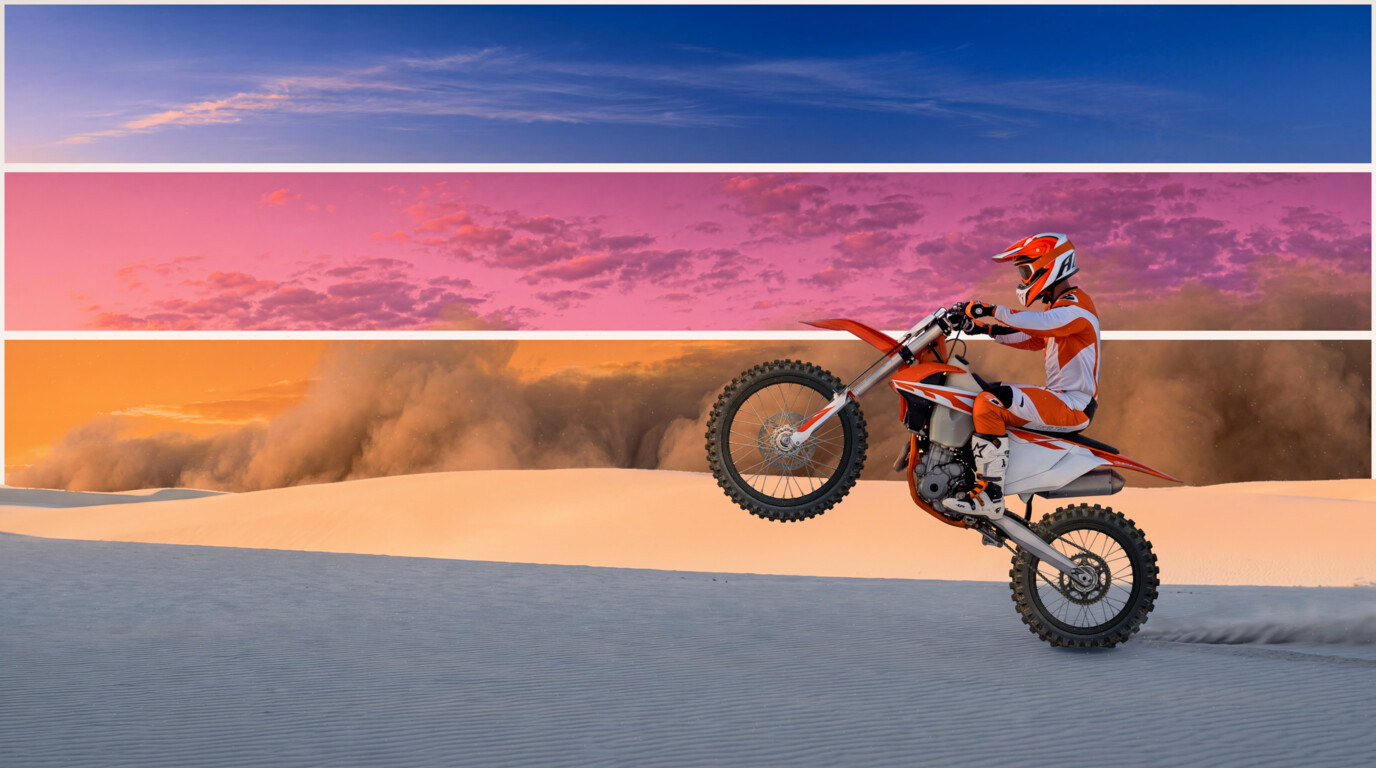
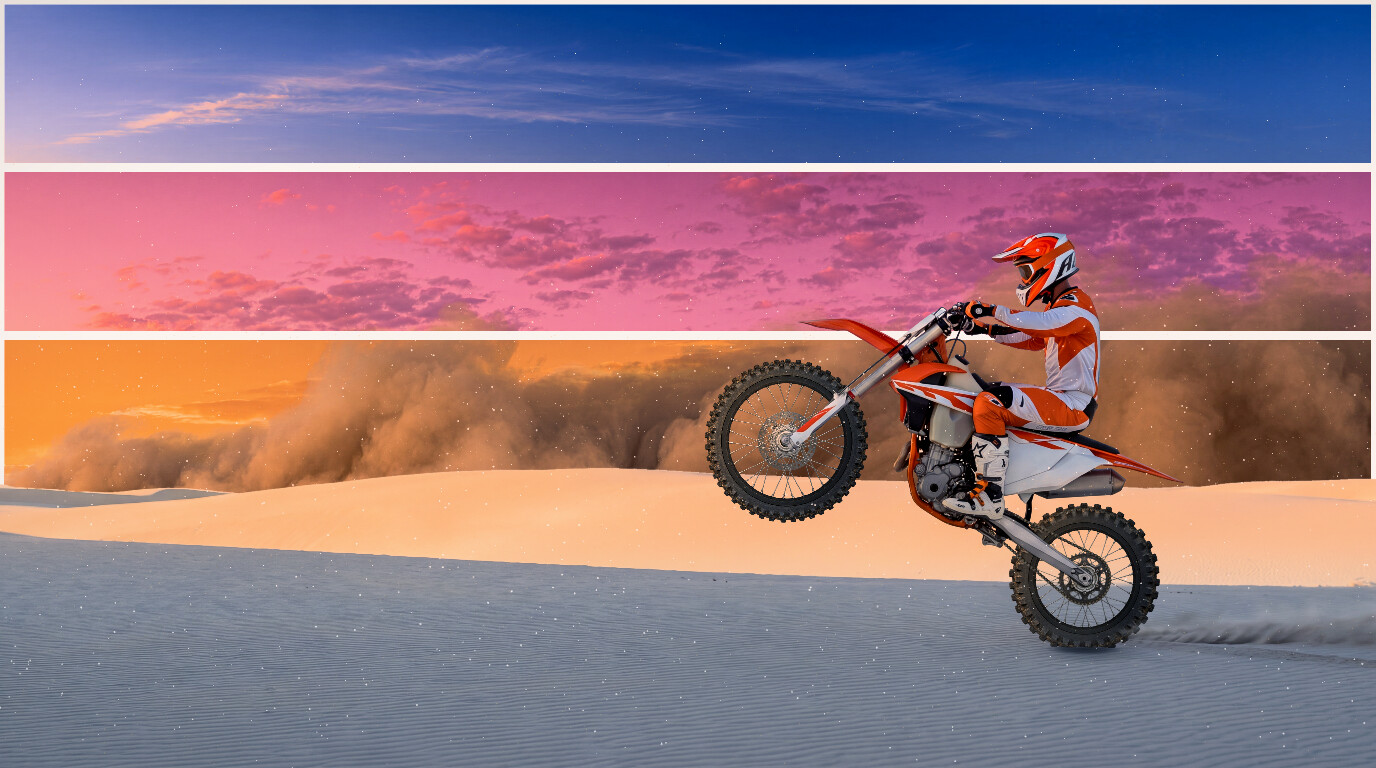
Add sparkling glints to the Wheely dust
Untinted sand grains ride with the distant and near grain layers at half
their rates, mirroring each layer's area and motion, and sparkle in the
low sun. The glint painter keeps a rotation so Qt draws scaled quads;
point sprites ignore the scene's downscale and showed as soft blobs.
The preview image now shows the glints.

diff --git a/themes/wheely/scene/AmbientDust.qml b/themes/wheely/scene/AmbientDust.qml
@@ -45,9 +45,12 @@ Item {
     xVector: PointDirection { x: 2.8; y: 0 }
     yVector: PointDirection { x: 0; y: 0.3 }
   }
+  // Rotation also keeps glints on scaled quads; point sprites ignore the scene's scale.
+  ImageParticle { system: air; groups: ["glint"]; source: "sand-grain.svg"; rotationVariation: 180 }
 
   // Pre-roll fills the air immediately; emission also extends beyond the left edge.
   Emitter {
+    id: distantGrains
     system: air; group: "distant"; enabled: root.painted
     x: -0.15 * root.width; y: 0.10 * root.height
     width: 1.15 * root.width; height: 0.66 * root.height
@@ -56,6 +59,7 @@ Item {
     velocity: PointDirection { x: 24; xVariation: 18; y: -5; yVariation: 10 }
   }
   Emitter {
+    id: nearGrains
     system: air; group: "near"; enabled: root.painted
     x: -0.2 * root.width; y: 0.42 * root.height
     width: 1.2 * root.width; height: 0.58 * root.height
@@ -70,5 +74,18 @@ Item {
     emitRate: 1; lifeSpan: 22000; lifeSpanVariation: 5000; startTime: 27000
     size: 440; endSize: 700; sizeVariation: 160
     velocity: PointDirection { x: 65; xVariation: 25; y: -8; yVariation: 8 }
+  }
+  // Half as many untinted grains ride with each grain layer and sparkle in the low sun.
+  Repeater {
+    model: [distantGrains, nearGrains]
+    Emitter {
+      required property Emitter modelData
+      system: air; group: "glint"; enabled: root.painted
+      x: modelData.x; y: modelData.y; width: modelData.width; height: modelData.height
+      emitRate: modelData.emitRate / 2; startTime: modelData.startTime
+      lifeSpan: modelData.lifeSpan; lifeSpanVariation: modelData.lifeSpanVariation
+      size: modelData.size; sizeVariation: modelData.sizeVariation
+      velocity: modelData.velocity
+    }
   }
 }

diff --git a/themes/wheely/README.md b/themes/wheely/README.md
@@ -40,6 +40,11 @@ Emitting, pre-roll included, waits for the window's first three drawn frames. Qt
 has drawn, so a hot reload's pre-roll otherwise showed as bright white puffs for ~15 s.
 Checked on hot reload, fresh launch, and offscreen stills.
 
+The user liked how those white grains sparkled and approved untinted glints on
+2026-10-18: they ride with the distant and near grains at half their rates, mirroring
+their area and motion. The glint painter needs a rotation; without one Qt draws point
+sprites, which ignore the scene's downscale and show as large soft blobs.
+
 ## Horizon sandstorm
 
 The user judged the storm good on 2026-10-18. A blue-keyed plate always showed
@@ -80,7 +85,7 @@ shaders, so a reload during the bake cannot run stale shader code.
 - Pronounced warm sunset lighting across the scene, with cooler foreground sand.
   Wheel lighting stays fixed to the upper-left light source while the tires turn.
 - Existing rear-wheel sand grains and puffs remain a starting point for dust work.
-- Ambient airborne sand and low drifting wisps fill the wider scene.
+- Ambient airborne sand, sparkling glints, and low drifting wisps fill the wider scene.
 - A distant sandstorm slowly approaches, with moving billows behind the rider.
 - Three white-framed sky prints, blue, magenta, and amber, replace the original sky.
 
